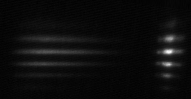
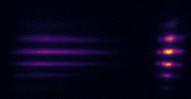
Updated a caption. Changed all colour maps to inferno.

diff --git a/part2/emittance.tex b/part2/emittance.tex
@@ -278,6 +278,7 @@ When focussing was required the Einzel lens was used.
     \includegraphics[width=0.5\linewidth]{part2/Figs/example_astigmatic_pepperpot.jpeg}
     \caption{An example of a pepperpot without the beam correction from the quadrupole lens. It is readily apparent that spacing of the beamlets is not the same for the $x$ and $y$ axes. This image is log scaled.}
     \label{figure:astigmatic_pepperpot}
+    % From 2017.06.01
 \end{figure}
 
 A number of permanent magnets were used to steer the beam through the various apertures and onto the detector and care was taken to attempt to keep the beam on the central axis of the apparatus.
@@ -356,7 +357,8 @@ Determining the time during the voltage sweep that corresponds to the start of t
 \begin{figure}
     \center
     \includegraphics[width=0.5\linewidth]{part2/Figs/example_calibration.jpeg}
-    \caption{An example image used to calibration the timing of the streaked pepperpots.}
+    \caption{An example of an image used to calibration the timing of the streaked pepperpots.}
+    % Set 9 2017.06.11
     \label{figure:example_calibration}
 \end{figure}
 
